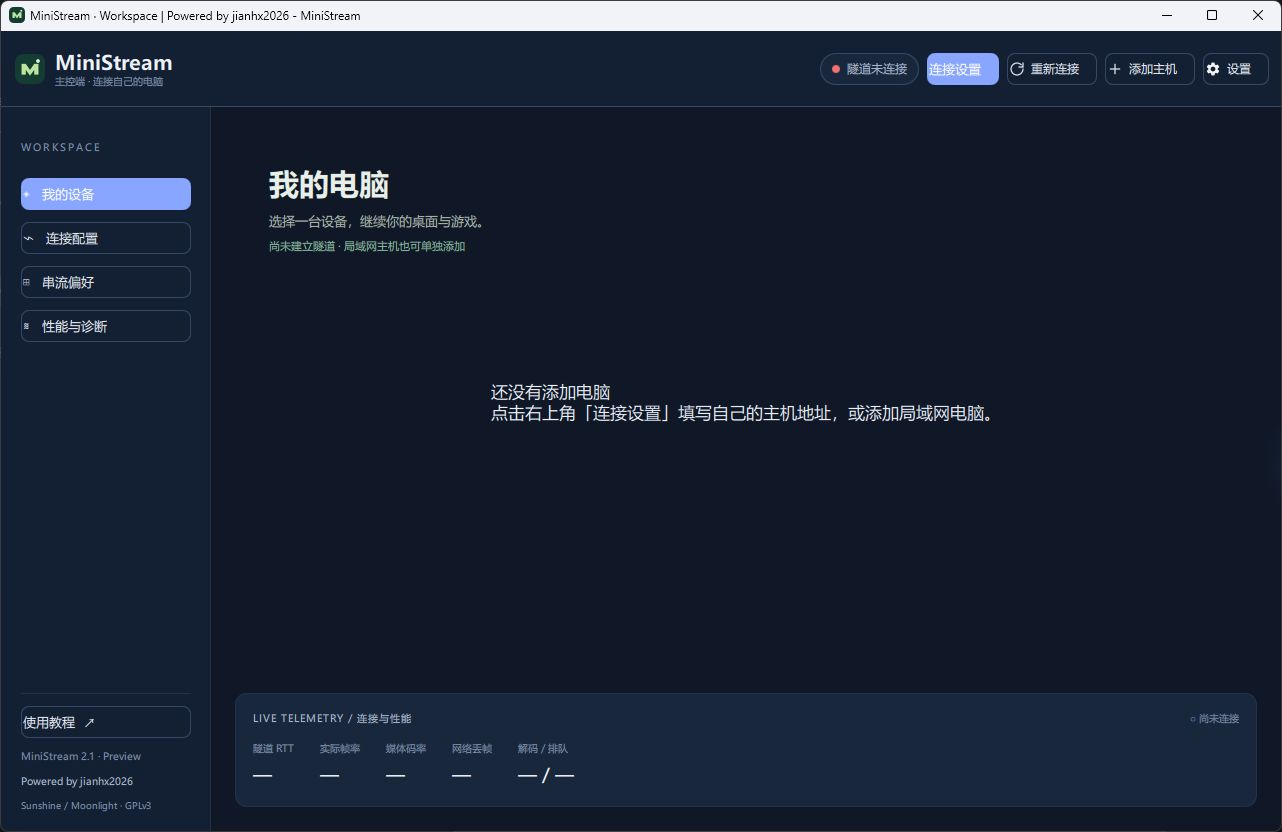
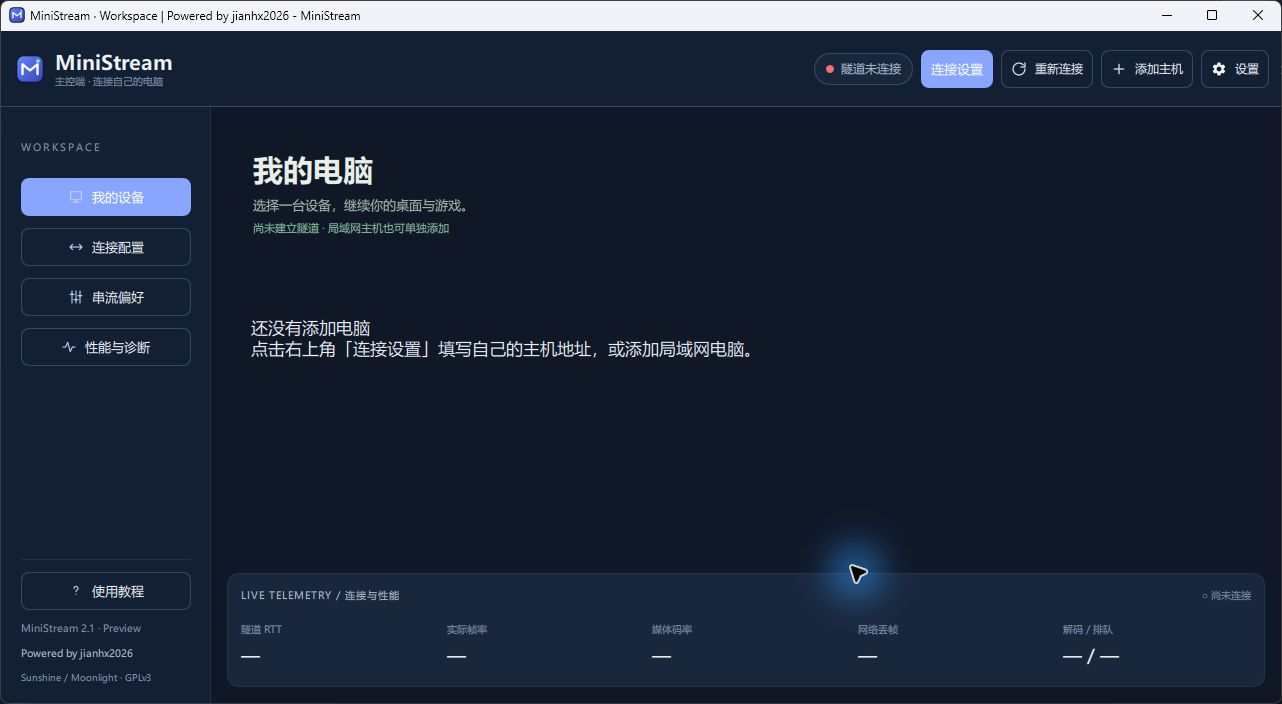
site update from main@cb1385cf6a0571b47973622e298deab8803cf517 cb1385cf6a0571b47973622e298deab8803cf517

diff --git a/tutorial.html b/tutorial.html
@@ -1,2 +1,2 @@
 <!doctype html>
-<html lang="zh-CN"><head><meta charset="utf-8"><meta name="viewport" content="width=device-width,initial-scale=1"><meta name="description" content="MiniStream：基于 Sunshine 与 Moonlight 的 Windows 游戏串流工具，使用 mslink 将多路服务复用到一个 TCP 与一个 UDP 端口。"><meta name="theme-color" content="#101513"><link rel="canonical" href="https://ministream.jianhx.com/tutorial.html"><link rel="icon" href="assets/brand.svg" type="image/svg+xml"><link rel="stylesheet" href="styles.css"><script src="script.js" defer></script><title>MiniStream 使用教程 — 安装、连接与状态排查</title><meta name="robots" content="index,follow,max-image-preview:large"><meta property="og:type" content="website"><meta property="og:locale" content="zh_CN"><meta property="og:site_name" content="MiniStream"><meta property="og:title" content="MiniStream 使用教程 — 安装、连接与状态排查"><meta property="og:description" content="基于 Sunshine 与 Moonlight，自部署的两端口串流连接。查看安装包、源码与部署说明。"><meta property="og:url" content="https://ministream.jianhx.com/tutorial.html"><meta property="og:image" content="https://ministream.jianhx.com/assets/social-card.svg"><meta name="twitter:card" content="summary"><meta name="twitter:title" content="MiniStream · Windows Game Streaming"><script type="application/ld+json">{"@context": "https://schema.org", "@type": "TechArticle", "headline": "MiniStream 使用教程：安装、连接与状态排查", "url": "https://ministream.jianhx.com/tutorial.html", "inLanguage": "zh-CN", "dateModified": "2026-10-23", "about": {"@type": "SoftwareApplication", "name": "MiniStream", "operatingSystem": "Windows"}}</script></head><body><header><a class="brand" href="index.html"><img src="assets/brand.svg" width="32" alt="">MiniStream</a><a class="nav-github" href="index.html">返回官网 ←</a></header><main class="wrap section tutorial"><div class="eyebrow">GUIDE / 使用教程</div><h1>从安装，<br>到第一次连接。</h1><p>本教程包含当前连接流程和新版控制台说明。本文的控制台截图和操作对应 <a href="https://github.com/jianhx189/jianhx-game-stream/releases/tag/v2.1.0-preview">2.1.0 UI 预览版</a>。正式版 2.0.5 为脱敏重发版，两者界面有所不同；预览版的 Win10 与跨网串流仍需回归验证。</p><nav class="toc"><a href="#prepare">准备</a><a href="#host">被控端</a><a href="#client">主控端</a><a href="#network">跨网络</a><a href="#repair">诊断与修复</a></nav><article id="prepare"><h3>01 / 先确认两台电脑的角色</h3><p><b>被控端</b>是实际运行游戏和桌面的主机；<b>主控端</b>是你用来查看画面、操作鼠标键盘的电脑。请只连接自己拥有或获得授权的设备。</p><p>Windows 使用与程序架构匹配的微软 Visual C++ v14 运行库。新编译程序在旧版运行库上可能崩溃。仅从微软官方页面获取安装程序，不要下载散装 DLL 替换系统文件。</p><a href="https://learn.microsoft.com/en-us/cpp/windows/latest-supported-vc-redist" target="_blank" rel="noopener">微软运行库说明 ↗</a></article><article id="host"><h3>02 / 在主机安装被控端</h3><p>完成被控端安装后，保存自己的隧道口令和 Sunshine 管理信息。新版桌面入口为「MiniStream 被控端」，控制台可查看端口、管理服务、设置端口和导出诊断。</p><img src="assets/host-overview.jpg" alt="被控端概览实机截图"><p>「本机已监听」仅说明本机端口存在监听，不等于 FRP、公网或 UDP 通路已验证。首次使用还需在主控端测试连接与配对。需要输入 PIN 时，从被控端打开 Sunshine 管理页面完成授权。</p><p>重启和停止会中断远程使用，操作前应确认没有正在使用的会话。管理命令会请求 Windows 管理员授权，取消授权不会更改配置。</p></article><article id="client"><h3>03 / 在另一台电脑打开主控端</h3><p>选择局域网或 FRP，填写自己的地址、端口和隧道口令。Sunshine 管理密码用于自动配对，可留空并采用手动 PIN 流程。不要把文档示例地址当成可用公共服务器。</p><img src="assets/client-setup.jpg" alt="主控端连接向导实机截图"><p>测试连接后检查主机卡片是否在线和已配对，再进入应用列表。隧道认证成功不代表游戏串流已经正常。进入桌面后分别检查画面、声音和鼠标键盘。</p><p>串流时用 <code>F12</code> 或 <code>Ctrl+Alt+Shift+X</code> 打开菜单，切换鼠标模式、统计、显示方式或断开连接。游戏更常使用相对坐标；普通桌面按实际体验选择。</p></article><article id="network"><h3>04 / 局域网与跨网络连接</h3><p>同一网络先使用主机局域网 IPv4 验证。跨网络再配置自己的 FRP 或可信网络，mslink 默认对外提供 TCP 14738 与 UDP 14739，实际端口以安装配置为准。</p><p>FRP 需要分别配置 TCP 与 UDP 代理。代理名写着 UDP 不代表所有底层传输都没有 TCP；请核对服务端、客户端和服务商的实际设置。不要公开转发 Sunshine 管理页面作为日常串流入口。</p><p>控制台修改端口后，还需同步修改客户端、映射与防火墙。控制台不会替你自动开放公网访问。</p></article><article id="repair"><h3>05 / 出问题时，按状态处理</h3><ul><li><b>窗口消失：</b>先查看任务管理器，区分退出与托盘隐藏。真实崩溃时收集事件查看器的故障模块、代码和时间。</li><li><b>服务未监听：</b>检查被控端安装目录和日志；通过控制台启动相应服务，再核对监听状态。不要同时启动多个实例。</li><li><b>画面正常但鼠标失效：</b>让串流窗口获得焦点、关闭菜单，检查鼠标模式并保留双端日志。</li><li><b>公网连接失败：</b>先测局域网，再检查映射、双向 UDP 和凭据；本机绿灯不能证明公网可达。</li><li><b>保存配置失败：</b>确认已允许管理操作。新版控制台在保存后提示主动重启；主控端连接配置保存在当前用户本地应用数据目录，不再要求向 Program Files 写入。</li></ul><p>新版「设备与连接」会显示真实认证客户端、RTT 和发送趋势。开始串流后，新版主控端回传帧率、网络丢帧与解码/排队时间；没有数据或过期时显示“—”。旧版两端需配套升级。网络丢帧不是 IP 丢包率，隧道 RTT 不是端到端操作延迟。可在被控端「日志与诊断」中导出脱敏报告。分享前再次检查内容，日志与转储可能含设备和进程信息，请勿直接公开上传凭据、私人地址或崩溃转储。</p><p>主控端运行日志通常在 <code>%TEMP%/Moonlight-*.log</code>，隧道日志的回退位置是 <code>%TEMP%/MiniStream/mslink.log</code>。请提供与复现时间对应的新日志，避免误发包内旧日志。</p></article><article><h3>版本与验收范围</h3><p>网站照片为程序真实运行窗口，包含尚未添加设备的空状态和本机端口检测状态。它们不代表跨网络游戏测试已经通过。2.1.0 为界面与管理能力预览版，本机窗口和配置保存已检查；尚未完成 Win10、UAC 服务管理及长时间跨网游戏验收。正式版与预览版的 SHA-256 均见各自发布说明，请使用对应版本的整套安装包。</p></article></main><footer class="wrap"><a class="brand" href="index.html">MiniStream ↗</a><p>Powered by jianhx2026 · Sunshine / Moonlight · GPLv3</p><a href="https://github.com/jianhx189/jianhx-game-stream">GitHub ↗</a></footer></body></html>
+<html lang="zh-CN"><head><meta charset="utf-8"><meta name="viewport" content="width=device-width,initial-scale=1"><meta name="description" content="MiniStream：基于 Sunshine 与 Moonlight 的 Windows 游戏串流工具，使用 mslink 将多路服务复用到一个 TCP 与一个 UDP 端口。"><meta name="theme-color" content="#101513"><link rel="canonical" href="https://ministream.jianhx.com/tutorial.html"><link rel="icon" href="assets/brand.svg" type="image/svg+xml"><link rel="stylesheet" href="styles.css"><script src="script.js" defer></script><title>MiniStream 使用教程 — 安装、连接与状态排查</title><meta name="robots" content="index,follow,max-image-preview:large"><meta property="og:type" content="website"><meta property="og:locale" content="zh_CN"><meta property="og:site_name" content="MiniStream"><meta property="og:title" content="MiniStream 使用教程 — 安装、连接与状态排查"><meta property="og:description" content="基于 Sunshine 与 Moonlight，自部署的两端口串流连接。查看安装包、源码与部署说明。"><meta property="og:url" content="https://ministream.jianhx.com/tutorial.html"><meta property="og:image" content="https://ministream.jianhx.com/assets/social-card.svg"><meta name="twitter:card" content="summary"><meta name="twitter:title" content="MiniStream · Windows Game Streaming"><script type="application/ld+json">{"@context": "https://schema.org", "@type": "TechArticle", "headline": "MiniStream 使用教程：安装、连接与状态排查", "url": "https://ministream.jianhx.com/tutorial.html", "inLanguage": "zh-CN", "dateModified": "2026-10-23", "about": {"@type": "SoftwareApplication", "name": "MiniStream", "operatingSystem": "Windows"}}</script></head><body><header><a class="brand" href="index.html"><img src="assets/brand.svg" width="32" alt="">MiniStream</a><a class="nav-github" href="index.html">返回官网 ←</a></header><main class="wrap section tutorial"><div class="eyebrow">GUIDE / 使用教程</div><h1>从安装，<br>到第一次连接。</h1><p>本教程包含当前连接流程和新版控制台说明。本文的控制台截图和操作对应 <a href="https://github.com/jianhx189/jianhx-game-stream/releases/tag/v2.1.1-preview">2.1.1 UI 预览版</a>。正式版 2.0.5 为脱敏重发版，两者界面有所不同；预览版的 Win10 与跨网串流仍需回归验证。</p><nav class="toc"><a href="#prepare">准备</a><a href="#host">被控端</a><a href="#client">主控端</a><a href="#network">跨网络</a><a href="#repair">诊断与修复</a></nav><article id="prepare"><h3>01 / 先确认两台电脑的角色</h3><p><b>被控端</b>是实际运行游戏和桌面的主机；<b>主控端</b>是你用来查看画面、操作鼠标键盘的电脑。请只连接自己拥有或获得授权的设备。</p><p>Windows 使用与程序架构匹配的微软 Visual C++ v14 运行库。新编译程序在旧版运行库上可能崩溃。仅从微软官方页面获取安装程序，不要下载散装 DLL 替换系统文件。</p><a href="https://learn.microsoft.com/en-us/cpp/windows/latest-supported-vc-redist" target="_blank" rel="noopener">微软运行库说明 ↗</a></article><article id="host"><h3>02 / 在主机安装被控端</h3><p>完成被控端安装后，保存自己的隧道口令和 Sunshine 管理信息。新版桌面入口为「MiniStream 被控端」，控制台可查看端口、管理服务、设置端口和导出诊断。</p><img src="assets/host-overview.jpg" alt="被控端概览实机截图"><p>「本机已监听」仅说明本机端口存在监听，不等于 FRP、公网或 UDP 通路已验证。首次使用还需在主控端测试连接与配对。需要输入 PIN 时，从被控端打开 Sunshine 管理页面完成授权。</p><p>重启和停止会中断远程使用，操作前应确认没有正在使用的会话。管理命令会请求 Windows 管理员授权，取消授权不会更改配置。</p></article><article id="client"><h3>03 / 在另一台电脑打开主控端</h3><p>选择局域网或 FRP，填写自己的地址、端口和隧道口令。Sunshine 管理密码用于自动配对，可留空并采用手动 PIN 流程。不要把文档示例地址当成可用公共服务器。</p><img src="assets/client-setup.jpg" alt="主控端连接向导实机截图"><p>测试连接后检查主机卡片是否在线和已配对，再进入应用列表。隧道认证成功不代表游戏串流已经正常。进入桌面后分别检查画面、声音和鼠标键盘。</p><p>串流时用 <code>F12</code> 或 <code>Ctrl+Alt+Shift+X</code> 打开菜单，切换鼠标模式、统计、显示方式或断开连接。游戏更常使用相对坐标；普通桌面按实际体验选择。</p></article><article id="network"><h3>04 / 局域网与跨网络连接</h3><p>同一网络先使用主机局域网 IPv4 验证。跨网络再配置自己的 FRP 或可信网络，mslink 默认对外提供 TCP 14738 与 UDP 14739，实际端口以安装配置为准。</p><p>FRP 需要分别配置 TCP 与 UDP 代理。代理名写着 UDP 不代表所有底层传输都没有 TCP；请核对服务端、客户端和服务商的实际设置。不要公开转发 Sunshine 管理页面作为日常串流入口。</p><p>控制台修改端口后，还需同步修改客户端、映射与防火墙。控制台不会替你自动开放公网访问。</p></article><article id="repair"><h3>05 / 出问题时，按状态处理</h3><ul><li><b>窗口消失：</b>先查看任务管理器，区分退出与托盘隐藏。真实崩溃时收集事件查看器的故障模块、代码和时间。</li><li><b>服务未监听：</b>检查被控端安装目录和日志；通过控制台启动相应服务，再核对监听状态。不要同时启动多个实例。</li><li><b>画面正常但鼠标失效：</b>让串流窗口获得焦点、关闭菜单，检查鼠标模式并保留双端日志。</li><li><b>公网连接失败：</b>先测局域网，再检查映射、双向 UDP 和凭据；本机绿灯不能证明公网可达。</li><li><b>保存配置失败：</b>确认已允许管理操作。新版控制台在保存后提示主动重启；主控端连接配置保存在当前用户本地应用数据目录，不再要求向 Program Files 写入。</li></ul><p>新版「设备与连接」会显示真实认证客户端、RTT 和发送趋势。开始串流后，新版主控端回传帧率、网络丢帧与解码/排队时间；没有数据或过期时显示“—”。旧版两端需配套升级。网络丢帧不是 IP 丢包率，隧道 RTT 不是端到端操作延迟。可在被控端「日志与诊断」中导出脱敏报告。分享前再次检查内容，日志与转储可能含设备和进程信息，请勿直接公开上传凭据、私人地址或崩溃转储。</p><p>主控端运行日志通常在 <code>%TEMP%/Moonlight-*.log</code>，隧道日志的回退位置是 <code>%TEMP%/MiniStream/mslink.log</code>。请提供与复现时间对应的新日志，避免误发包内旧日志。</p></article><article><h3>版本与验收范围</h3><p>网站照片为程序真实运行窗口，包含尚未添加设备的空状态和本机端口检测状态。它们不代表跨网络游戏测试已经通过。2.1.0 为界面与管理能力预览版，本机窗口和配置保存已检查；尚未完成 Win10、UAC 服务管理及长时间跨网游戏验收。正式版与预览版的 SHA-256 均见各自发布说明，请使用对应版本的整套安装包。</p></article></main><footer class="wrap"><a class="brand" href="index.html">MiniStream ↗</a><p>Powered by jianhx2026 · Sunshine / Moonlight · GPLv3</p><a href="https://github.com/jianhx189/jianhx-game-stream">GitHub ↗</a></footer></body></html>

diff --git a/index.html b/index.html
@@ -5,7 +5,7 @@
 <div class="hero-scene" aria-label="串流体验示意，非运行截图"><div class="scene-top"><span><i></i> PERSONAL STREAMING</span><span>01 / 03</span></div><div class="landscape"><div class="sun"></div><div class="mountain far"></div><div class="mountain near"></div><div class="landscape-text">YOUR WORLD.<br>WITHIN REACH.</div><div class="scene-caption">画面示意 / 实际效果取决于设备与网络</div></div><div class="scene-controls"><span class="play">▶</span><div><strong>我的游戏主机</strong><small>让熟悉的桌面，出现在另一块屏幕</small></div><span class="scene-badge">PC → PC</span></div><div class="floating"><span class="tiny-icon">⌁</span><div><b>少一点配置，近一点连接</b><small>1 TCP + 1 UDP · mslink 端口复用</small></div></div></div></section>
 <div class="ticker"><div class="wrap"><span>成熟内核，自主连接</span><b>SUNSHINE <small>采集与编码</small></b><span class="ticker-plus">+</span><b>MSLINK <small>两端口隧道</small></b><span class="ticker-plus">+</span><b>MOONLIGHT <small>接收与交互</small></b></div></div>
 <section class="wrap section" id="experience"><div class="section-head"><div><div class="eyebrow">01 / THE EXPERIENCE</div><h2>打开电脑之后，<br>连接应该更简单。</h2></div><p>沿用成熟串流内核，<br>把精力放在连接与日常使用上。</p></div><div class="feature-grid"><article class="feature large"><span class="index">01 — CONNECT</span><h3>从填写地址，<br>到进入自己的桌面。</h3><p>连接向导整合主机地址、端口与凭据。局域网或已有 FRP，选择适合你的路径。</p><div class="mini-app" aria-label="连接向导交互示意"><div class="mini-app-top"><span class="mini-logo">m↗</span><b>连接我的电脑</b><span>界面示意</span></div><div class="field"><small>连接方式</small><strong>FRP / 自行部署的网络</strong><span>⌄</span></div><div class="field"><small>被控端地址</small><strong>your-host.example.com</strong></div><div class="port-row"><div class="field"><small>TCP 端口</small><strong>14738</strong></div><div class="field"><small>UDP 端口</small><strong>14739</strong></div></div><div class="mock-button">填写凭据后测试连接 <span>→</span></div></div></article><article class="feature green"><span class="index">02 — CONTROL</span><div class="feature-symbol">↖</div><h3>桌面操作与游戏，<br>各有合适的鼠标模式。</h3><p>在串流菜单中切换相对或绝对坐标，也可调整全屏、性能统计与连接状态。</p><div class="key-line"><kbd>F12</kbd><span>呼出串流菜单</span></div></article><article class="feature dark"><span class="index">03 — MAKE IT YOURS</span><div class="feature-symbol">⌘</div><h3>自己的设备，<br>自己的连接方式。</h3><p>无需 MiniStream 云账户。你管理主机、访问凭据和网络路径，源码可供查看与修改。</p><a href="https://github.com/jianhx189/jianhx-game-stream" target="_blank" rel="noopener noreferrer">查看源代码 ↗</a></article></div></section>
-<section class="wrap section" id="screenshots"><div class="section-head"><div><div class="eyebrow">REAL DESKTOP APPS / 界面更新预览</div><h2>两端状态，<br>都能看得清楚。</h2></div><p>以下为本次编译程序的真实窗口截图。<br>主控端尚未添加设备；被控端显示的是本机端口状态。UI 预览版可供试用，Win10 与跨网串流仍需回归验证。</p></div><div class="real-shots"><figure><a href="assets/client-home.jpg"><img src="assets/client-home.jpg" alt="MiniStream 主控端真实设备首页：尚未添加电脑" loading="lazy"></a><figcaption>主控端 · 设备首页与连接入口</figcaption></figure><figure><a href="assets/host-overview.jpg"><img src="assets/host-overview.jpg" alt="MiniStream 被控端真实控制台：本机端口监听和服务管理" loading="lazy"></a><figcaption>被控端 · 现代 IT 工作台与真实遥测（当前等待数据）</figcaption></figure><figure><a href="assets/client-setup.jpg"><img src="assets/client-setup.jpg" alt="主控端真实首次连接向导" loading="lazy"></a><figcaption>连接向导 · 选择自己的网络路径</figcaption></figure></div><div class="actions"><a class="button primary" href="tutorial.html">阅读完整使用教程 →</a><a class="button ghost" href="https://github.com/jianhx189/jianhx-game-stream/releases/tag/v2.1.0-preview">试用新版 UI ↗</a></div><p class="preview-note">截图对应 2.1.0 UI 预览版；下方默认下载为最新正式发布。升级前保存自己的连接配置。</p></section><section class="architecture" id="architecture"><div class="wrap section"><div class="section-head"><div><div class="eyebrow">02 / UNDER THE HOOD</div><h2>多路串流，<br>两个对外端口。</h2></div><p>mslink 把 Moonlight / Sunshine 的多路服务<br>复用到 1 个 TCP 与 1 个 UDP 端口，适配端口受限的部署。</p></div><div class="flow"><div class="flow-node"><span>01 / YOUR HOST</span><h3>Sunshine</h3><p>主机运行游戏<br>采集画面与声音</p><small>被控端 · Windows</small></div><div class="flow-link"><span>信令 / 视频 / 音频 / 控制</span><div>──────── →</div></div><div class="flow-node tunnel"><span>02 / YOUR ROUTE</span><h3>mslink</h3><p>1 × TCP　+　1 × UDP</p><small>局域网 / 已配置的 FRP</small></div><div class="flow-link"><span>连接到本地服务入口</span><div>──────── →</div></div><div class="flow-node"><span>03 / YOUR CLIENT</span><h3>Moonlight</h3><p>接收画面与声音<br>回传键鼠操作</p><small>主控端 · Windows</small></div></div><div class="route-note"><b>选择适合自己的路线</b><p>同一局域网优先使用局域网路径。跨网络需要配置可达的 FRP 或其他可信网络；UDP 代理的实际底层传输取决于服务商配置。端口更少，并不代表网络延迟一定更低。</p></div></div></section>
+<section class="wrap section" id="screenshots"><div class="section-head"><div><div class="eyebrow">REAL DESKTOP APPS / 界面更新预览</div><h2>两端状态，<br>都能看得清楚。</h2></div><p>以下为本次编译程序的真实窗口截图。<br>主控端尚未添加设备；被控端显示的是本机端口状态。UI 预览版可供试用，Win10 与跨网串流仍需回归验证。</p></div><div class="real-shots"><figure><a href="assets/client-home.jpg"><img src="assets/client-home.jpg" alt="MiniStream 主控端真实设备首页：尚未添加电脑" loading="lazy"></a><figcaption>主控端 · 设备首页与连接入口</figcaption></figure><figure><a href="assets/host-overview.jpg"><img src="assets/host-overview.jpg" alt="MiniStream 被控端真实控制台：本机端口监听和服务管理" loading="lazy"></a><figcaption>被控端 · 现代 IT 工作台与真实遥测（当前等待数据）</figcaption></figure><figure><a href="assets/client-setup.jpg"><img src="assets/client-setup.jpg" alt="主控端真实首次连接向导" loading="lazy"></a><figcaption>连接向导 · 选择自己的网络路径</figcaption></figure></div><div class="actions"><a class="button primary" href="tutorial.html">阅读完整使用教程 →</a><a class="button ghost" href="https://github.com/jianhx189/jianhx-game-stream/releases/tag/v2.1.1-preview">试用新版 UI ↗</a></div><p class="preview-note">截图对应 2.1.1 UI 预览版；下方默认下载为最新正式发布。升级前保存自己的连接配置。</p></section><section class="architecture" id="architecture"><div class="wrap section"><div class="section-head"><div><div class="eyebrow">02 / UNDER THE HOOD</div><h2>多路串流，<br>两个对外端口。</h2></div><p>mslink 把 Moonlight / Sunshine 的多路服务<br>复用到 1 个 TCP 与 1 个 UDP 端口，适配端口受限的部署。</p></div><div class="flow"><div class="flow-node"><span>01 / YOUR HOST</span><h3>Sunshine</h3><p>主机运行游戏<br>采集画面与声音</p><small>被控端 · Windows</small></div><div class="flow-link"><span>信令 / 视频 / 音频 / 控制</span><div>──────── →</div></div><div class="flow-node tunnel"><span>02 / YOUR ROUTE</span><h3>mslink</h3><p>1 × TCP　+　1 × UDP</p><small>局域网 / 已配置的 FRP</small></div><div class="flow-link"><span>连接到本地服务入口</span><div>──────── →</div></div><div class="flow-node"><span>03 / YOUR CLIENT</span><h3>Moonlight</h3><p>接收画面与声音<br>回传键鼠操作</p><small>主控端 · Windows</small></div></div><div class="route-note"><b>选择适合自己的路线</b><p>同一局域网优先使用局域网路径。跨网络需要配置可达的 FRP 或其他可信网络；UDP 代理的实际底层传输取决于服务商配置。端口更少，并不代表网络延迟一定更低。</p></div></div></section>
 <section class="wrap section" id="start"><div class="section-head"><div><div class="eyebrow">03 / GET STARTED</div><h2>两台电脑，<br>三步开始。</h2></div><p>首次使用先准备好两端程序与连接凭据。<br>下载文件和发布说明以 GitHub 为准。</p></div><div class="steps"><article><span>01</span><h3>安装被控端</h3><p>在运行游戏的 Windows 主机上安装 Host。保存安装时提供的隧道与 Sunshine 管理信息。</p><a class="download" data-file="MiniStream-Host-Setup.exe" href="https://github.com/jianhx189/jianhx-game-stream/releases/latest">下载被控端安装包</a></article><article><span>02</span><h3>配置网络</h3><p>局域网使用主机 IP。FRP 场景映射 TCP、UDP 各一个端口，再确认双向通信与访问凭据。</p><a href="https://github.com/jianhx189/jianhx-game-stream#readme" target="_blank" rel="noopener noreferrer">阅读部署说明 ↗</a></article><article><span>03</span><h3>安装主控端</h3><p>在另一台 Windows 电脑安装 Client，完成连接向导与配对，从主机列表进入桌面。</p><a class="download" data-file="MiniStream-Client-Setup.exe" href="https://github.com/jianhx189/jianhx-game-stream/releases/latest">下载主控端安装包</a></article></div><div class="release-strip"><div><span class="eyebrow">PROJECT UPDATE</span><h3>持续改进，保持透明。</h3><p id="release-info" aria-live="polite">查看最新发布、文件校验值与完整更新说明。</p></div><a class="button primary" href="https://github.com/jianhx189/jianhx-game-stream/releases/latest" target="_blank" rel="noopener noreferrer">查看最新发布 ↗</a></div><div class="scope-note"><span>使用边界</span><p>项目仍在持续开发。实际帧率、延迟、键鼠兼容性和弱网表现取决于硬件与链路；不承诺所有游戏适用。公网部署前请阅读当前版本的认证与网络配置说明。</p></div></section>
-<section class="wrap section faq" id="faq"><div><div class="eyebrow">BEFORE YOU CONNECT</div><h2>连接之前，<br>你可能还想知道。</h2></div><div class="questions"><details open><summary>和 RustDesk、Windows RDP 有什么区别？<span>+</span></summary><p>MiniStream 侧重个人 Windows 主机上的游戏与桌面串流，沿用 Sunshine / Moonlight 的媒体与输入能力。RustDesk 更偏通用远程支持，RDP 更偏 Windows 远程会话。请按使用场景选择，当前项目不承诺全面替代其他产品。</p></details><details><summary>只需要两个端口，就一定能在公网使用吗？<span>+</span></summary><p>仍需正确配置端口映射、防火墙、访问凭据与双向通信。FRP 的 UDP 代理可能由其他传输协议承载，需要核对服务商和客户端配置。</p></details><details><summary>画面正常，鼠标没反应怎么办？<span>+</span></summary><p>先确认串流窗口获得焦点、菜单已关闭，再尝试适合当前游戏的鼠标模式。仍异常时记录双端日志、传输模式及复现步骤，脱敏后提交到 GitHub Issues。</p></details><details><summary>下载后需要注册账号吗？<span>+</span></summary><p>不需要 MiniStream 云账户。你仍需设置被控端隧道凭据，并完成 Sunshine 配对。请只连接自己拥有或获授权的设备。</p></details><details><summary>页面里的画面是真实客户端截图吗？<span>+</span></summary><p>「两端状态」区域的四张图片是本次编译的 2.1.0 UI 预览版真实窗口。首页山景和体验区域的小型向导卡片为网页绘制的示意，均已标注。</p></details></div></section>
+<section class="wrap section faq" id="faq"><div><div class="eyebrow">BEFORE YOU CONNECT</div><h2>连接之前，<br>你可能还想知道。</h2></div><div class="questions"><details open><summary>和 RustDesk、Windows RDP 有什么区别？<span>+</span></summary><p>MiniStream 侧重个人 Windows 主机上的游戏与桌面串流，沿用 Sunshine / Moonlight 的媒体与输入能力。RustDesk 更偏通用远程支持，RDP 更偏 Windows 远程会话。请按使用场景选择，当前项目不承诺全面替代其他产品。</p></details><details><summary>只需要两个端口，就一定能在公网使用吗？<span>+</span></summary><p>仍需正确配置端口映射、防火墙、访问凭据与双向通信。FRP 的 UDP 代理可能由其他传输协议承载，需要核对服务商和客户端配置。</p></details><details><summary>画面正常，鼠标没反应怎么办？<span>+</span></summary><p>先确认串流窗口获得焦点、菜单已关闭，再尝试适合当前游戏的鼠标模式。仍异常时记录双端日志、传输模式及复现步骤，脱敏后提交到 GitHub Issues。</p></details><details><summary>下载后需要注册账号吗？<span>+</span></summary><p>不需要 MiniStream 云账户。你仍需设置被控端隧道凭据，并完成 Sunshine 配对。请只连接自己拥有或获授权的设备。</p></details><details><summary>页面里的画面是真实客户端截图吗？<span>+</span></summary><p>「两端状态」区域的四张图片是本次编译的 2.1.1 UI 预览版真实窗口。首页山景和体验区域的小型向导卡片为网页绘制的示意，均已标注。</p></details></div></section>
 <section class="closing"><div class="wrap"><div class="eyebrow">YOUR COMPUTER. YOUR CONNECTION.</div><h2>下一次打开游戏，<br>不必坐在同一张桌前。</h2><a class="button primary" href="#start">开始连接自己的电脑 →</a></div></section></main><footer class="wrap"><a class="brand" href="#">MiniStream<span>↗</span></a><p>基于 Powered by jianhx2026 · Sunshine / Moonlight · GPLv3<br>Powered by jianhx2026 · 个人 Windows 游戏串流项目</p><a href="https://github.com/jianhx189/jianhx-game-stream" target="_blank" rel="noopener noreferrer">GitHub ↗</a><small>© 2026 MiniStream</small></footer></body></html>
